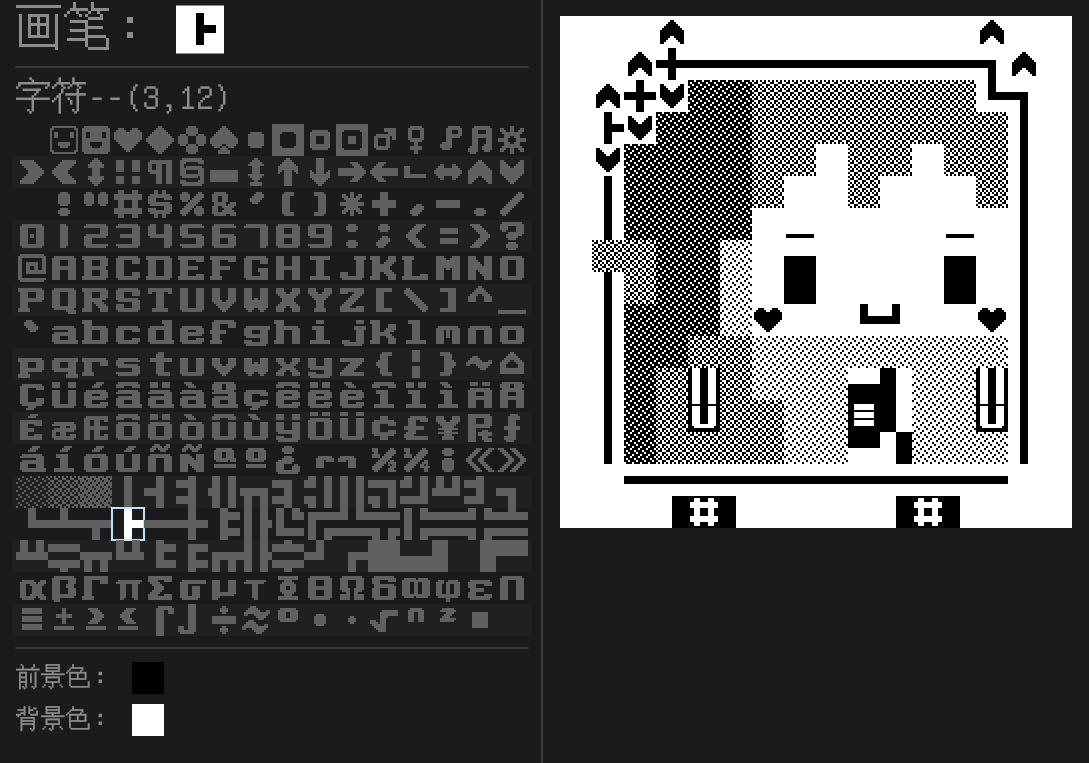
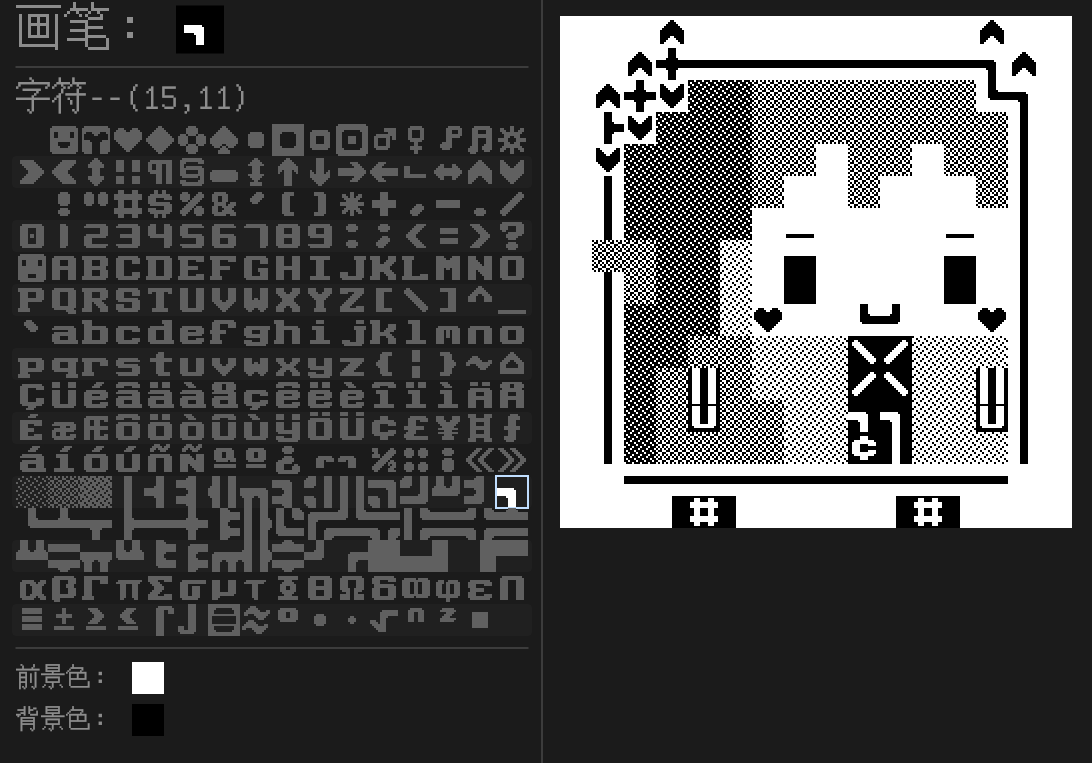
feat:json文件读写

diff --git a/src/main.rs b/src/main.rs
@@ -1,11 +1,16 @@
 #![cfg_attr(not(debug_assertions), windows_subsystem = "windows")]
 
+mod canvas;
+mod file;
 mod image_button;
 mod setup;
 mod tile;
 
 use eframe::egui;
+use file::write_canvas_to_file;
 use tile::TileSet;
+
+use crate::file::load_canvas_from_file;
 
 const TILE_SIZE: f32 = 16.0;
 
@@ -23,13 +28,6 @@ fn main() -> Result<(), eframe::Error> {
 }
 
 #[derive(Copy, Clone)]
-struct TileState {
-    idx: usize,
-    fc: egui::Color32,
-    bc: egui::Color32,
-}
-
-#[derive(Copy, Clone)]
 struct PencilState {
     idx: usize,
     fc: egui::Color32,
@@ -37,8 +35,8 @@ struct PencilState {
 }
 
 impl PencilState {
-    pub fn swap_color_and_into(self) -> TileState {
-        TileState {
+    pub fn swap_color_and_into(self) -> canvas::TileState {
+        canvas::TileState {
             idx: self.idx,
             fc: self.bc,
             bc: self.fc,
@@ -46,9 +44,9 @@ impl PencilState {
     }
 }
 
-impl Into<TileState> for PencilState {
-    fn into(self) -> TileState {
-        TileState {
+impl Into<canvas::TileState> for PencilState {
+    fn into(self) -> canvas::TileState {
+        canvas::TileState {
             idx: self.idx,
             fc: self.fc,
             bc: self.bc,
@@ -59,9 +57,7 @@ impl Into<TileState> for PencilState {
 struct FakePaint {
     tile: TileSet,
     pencil_state: PencilState,
-    canvas_cells: Vec<Option<TileState>>,
-    canvas_size_x: usize,
-    canvas_size_y: usize,
+    canvas: canvas::Canvas,
 }
 
 fn get_center_rect(rect: &egui::Rect, size: egui::Vec2) -> egui::Rect {
@@ -103,11 +99,10 @@ impl FakePaint {
     fn new(cc: &eframe::CreationContext<'_>) -> Self {
         setup::custom_fonts(&cc.egui_ctx);
         cc.egui_ctx.set_visuals(egui::Visuals::dark());
-        let canvas_size_x: usize = 16;
-        let canvas_size_y: usize = 16;
-        let canvas_size = canvas_size_x * canvas_size_x;
-        let mut canvas_cells = Vec::with_capacity(canvas_size);
-        canvas_cells.resize(canvas_size, None);
+        let Ok(canvas) = load_canvas_from_file(std::path::Path::new("output.json")) else
+        {
+            panic!("Can't load canvas from file output.json")
+        };
         Self {
             tile: TileSet::new(
                 tile::load_texture(&cc.egui_ctx).unwrap(),
@@ -120,18 +115,8 @@ impl FakePaint {
                 fc: egui::Color32::WHITE,
                 bc: egui::Color32::BLACK,
             },
-            canvas_cells,
-            canvas_size_x,
-            canvas_size_y,
+            canvas,
         }
-    }
-
-    pub fn access_cell_mut(&mut self, x: usize, y: usize) -> &mut Option<TileState> {
-        &mut self.canvas_cells[y * self.canvas_size_x + x]
-    }
-
-    pub fn access_cell(&self, x: usize, y: usize) -> &Option<TileState> {
-        &self.canvas_cells[y * self.canvas_size_x + x]
     }
 
     fn draw_pencil_state(&self, ui: &mut egui::Ui) {
@@ -157,16 +142,16 @@ impl FakePaint {
 
     fn draw_canvas(&mut self, ui: &mut egui::Ui) {
         let (rect, res) = ui.allocate_exact_size(
-            egui::Vec2::splat(TILE_SIZE * self.canvas_size_x as f32),
+            egui::Vec2::splat(TILE_SIZE * self.canvas.size_x as f32),
             egui::Sense::drag(),
         );
 
         let hover_pos = res.hover_pos();
         if ui.is_rect_visible(rect) {
-            for y in 0..self.canvas_size_y {
-                for x in 0..self.canvas_size_x {
+            for y in 0..self.canvas.size_y {
+                for x in 0..self.canvas.size_x {
                     let rect = compute_grid_rect(rect, egui::Vec2::splat(TILE_SIZE), x, y);
-                    let cell = self.access_cell(x, y);
+                    let cell = self.canvas.get_cell(x, y);
 
                     if hover_pos != None && rect.contains(hover_pos.unwrap()) {
                         self.tile.paint_in_rect(
@@ -201,9 +186,9 @@ impl FakePaint {
             let (x, y) = get_grid_x_y(rect, hover_pos.unwrap(), egui::Vec2::splat(TILE_SIZE));
             let ctx = ui.ctx();
             if ctx.input(|i| i.pointer.primary_down()) {
-                *(self.access_cell_mut(x, y)) = Some(self.pencil_state.into());
+                *(self.canvas.get_cell_mut(x, y)) = Some(self.pencil_state.into());
             } else if ctx.input(|i| i.pointer.secondary_down()) {
-                *(self.access_cell_mut(x, y)) = Some(self.pencil_state.swap_color_and_into());
+                *(self.canvas.get_cell_mut(x, y)) = Some(self.pencil_state.swap_color_and_into());
             }
         }
     }
@@ -317,5 +302,15 @@ impl eframe::App for FakePaint {
         egui::CentralPanel::default().show(ctx, |ui| {
             self.draw_canvas(ui);
         });
+    }
+
+    fn on_close_event(&mut self) -> bool {
+        use file::JsonableCanvas;
+        let res = write_canvas_to_file(&JsonableCanvas::from(&self.canvas), std::path::Path::new("output.json"));
+        if let Err(_) = res {
+            false
+        } else {
+            true
+        }
     }
 }

diff --git a/src/file.rs b/src/file.rs
@@ -1,0 +1,84 @@
+use eframe::egui;
+use std::error::Error;
+use std::fs::File;
+use std::io::BufReader;
+use std::io::BufWriter;
+use std::path::Path;
+
+use serde::Deserialize;
+use serde::Serialize;
+#[derive(Copy, Clone, Deserialize, Serialize)]
+pub struct JsonableTileState {
+    pub idx: usize,
+    pub fc: (u8, u8, u8, u8),
+    pub bc: (u8, u8, u8, u8),
+}
+
+#[derive(Deserialize, Serialize)]
+pub struct JsonableCanvas {
+    pub cells: Vec<Option<JsonableTileState>>,
+    pub size_x: usize,
+    pub size_y: usize,
+}
+
+use crate::canvas::Canvas;
+use crate::canvas::TileState;
+impl Into<Canvas> for JsonableCanvas {
+    fn into(self) -> Canvas {
+        let mut cells = Vec::with_capacity(self.cells.len());
+        for c in &self.cells {
+            if let Some(c) = c {
+                let fc = c.fc;
+                let bc = c.bc;
+                cells.push(Some(TileState {
+                    idx: c.idx,
+                    fc: egui::Color32::from_rgba_premultiplied(fc.0, fc.1, fc.2, fc.3),
+                    bc: egui::Color32::from_rgba_premultiplied(bc.0, bc.1, bc.2, bc.3),
+                }));
+            } else {
+                cells.push(None);
+            }
+        }
+        Canvas {
+            cells,
+            size_x: self.size_x,
+            size_y: self.size_y,
+        }
+    }
+}
+
+impl From<&Canvas> for JsonableCanvas {
+    fn from(ca: &Canvas) -> Self {
+        let mut cells = Vec::with_capacity(ca.cells.len());
+        for c in &ca.cells {
+            if let Some(c) = c {
+                cells.push(Some(JsonableTileState {
+                    idx: c.idx,
+                    fc: c.fc.to_tuple(),
+                    bc: c.bc.to_tuple(),
+                }));
+            } else {
+                cells.push(None);
+            }
+        }
+        JsonableCanvas {
+            cells,
+            size_x: ca.size_x,
+            size_y: ca.size_y,
+        }
+    }
+}
+
+pub fn load_canvas_from_file(path: &Path) -> Result<Canvas, Box<dyn Error>> {
+    let file = File::open(path)?;
+    let reader = BufReader::new(file);
+    let u: JsonableCanvas = serde_json::from_reader(reader)?;
+    Ok(u.into())
+}
+
+pub fn write_canvas_to_file(u: &impl Serialize, path: &Path) -> Result<(), Box<dyn Error>> {
+    let file = File::create(path)?;
+    let writer = BufWriter::new(file);
+    serde_json::to_writer_pretty(writer, u)?;
+    Ok(())
+}

diff --git a/src/canvas.rs b/src/canvas.rs
@@ -1,0 +1,29 @@
+use eframe::egui;
+
+#[derive(Copy, Clone)]
+pub struct TileState {
+    pub idx: usize,
+    pub fc: egui::Color32,
+    pub bc: egui::Color32,
+}
+
+pub struct Canvas {
+    pub cells: Vec<Option<TileState>>,
+    pub size_x: usize,
+    pub size_y: usize,
+}
+
+impl Canvas {
+    pub fn get_cell_mut(&mut self, x: usize, y: usize) -> &mut Option<TileState> {
+        &mut self.cells[y * self.size_x + x]
+    }
+
+    pub fn get_cell(&self, x: usize, y: usize) -> &Option<TileState> {
+        &self.cells[y * self.size_x + x]
+    }
+
+    #[allow(unused)]
+    pub fn size(&self) -> usize {
+        self.size_x * self.size_y
+    }
+}

diff --git a/src/tile.rs b/src/tile.rs
@@ -28,7 +28,7 @@ pub fn load_texture(ctx: &egui::Context) -> Option<egui::TextureHandle> {
     ascii.get_or_insert_with(|| {
         ctx.load_texture(
             "16x16_sm_ascii",
-            load_image_from_path(std::path::Path::new("assets/16x16_sm_ascii.png")).unwrap(),
+            load_image_from_path(std::path::Path::new("assets/16x16_sm.png")).unwrap(),
             tex_opt,
         )
     });
